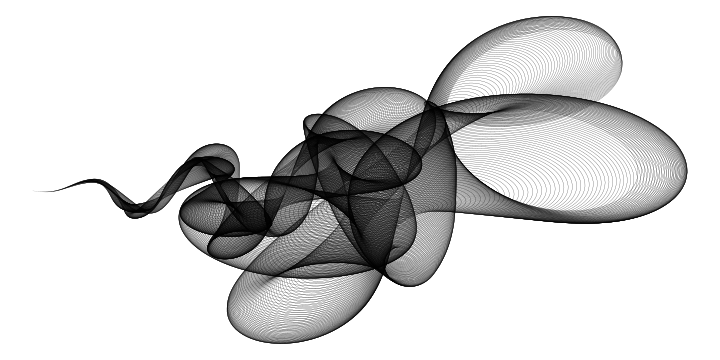
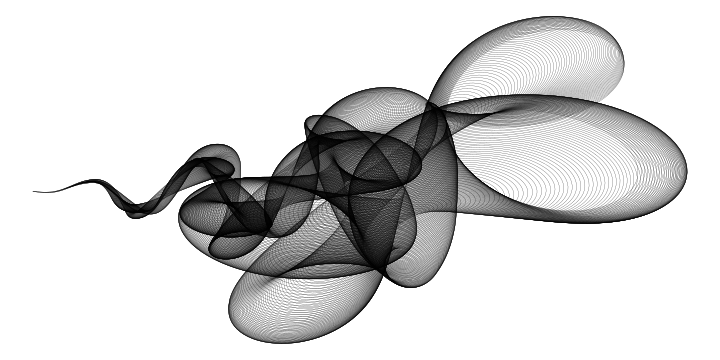
minor update

diff --git a/notes/ggsmoke.html b/notes/ggsmoke.html
@@ -84,6 +84,7 @@
 
 
 <div class="chunk" id="ggsmoke1"><div class="rcode"><div class="source"><pre class="knitr r"><span class="hl std">n</span> <span class="hl kwb">=</span> <span class="hl num">1000</span>
+<span class="hl kwd">set.seed</span><span class="hl std">(</span><span class="hl num">3</span><span class="hl std">)</span>
 <span class="hl kwd">tibble</span><span class="hl std">(</span>
   <span class="hl kwc">i</span> <span class="hl std">=</span> <span class="hl num">1</span><span class="hl opt">:</span><span class="hl std">n,</span>
   <span class="hl kwc">ran1</span> <span class="hl std">=</span> <span class="hl kwd">c</span><span class="hl std">(</span><span class="hl kwd">arima.sim</span><span class="hl std">(</span><span class="hl kwd">list</span><span class="hl std">(</span><span class="hl kwc">ar</span><span class="hl std">=</span><span class="hl kwd">c</span><span class="hl std">(</span><span class="hl num">1.999</span><span class="hl std">,</span> <span class="hl opt">-</span><span class="hl num">0.9995</span><span class="hl std">)), n,</span> <span class="hl kwc">sd</span><span class="hl std">=</span><span class="hl num">1e-3</span><span class="hl std">)),</span>
@@ -93,11 +94,11 @@
 <span class="hl kwd">rowwise</span><span class="hl std">()</span> <span class="hl opt">%&gt;%</span>
 <span class="hl kwd">mutate</span><span class="hl std">(</span><span class="hl kwc">dr</span> <span class="hl std">= ran1</span> <span class="hl opt">*</span> <span class="hl kwd">cos</span><span class="hl std">(theta)</span> <span class="hl opt">+</span> <span class="hl std">ran2</span> <span class="hl opt">*</span> <span class="hl kwd">cos</span><span class="hl std">(</span><span class="hl num">2</span><span class="hl opt">*</span><span class="hl std">theta)</span> <span class="hl opt">+</span>
             <span class="hl std">ran2</span> <span class="hl opt">*</span> <span class="hl kwd">sin</span><span class="hl std">(theta)</span> <span class="hl opt">+</span> <span class="hl std">ran1</span> <span class="hl opt">*</span> <span class="hl kwd">sin</span><span class="hl std">(</span><span class="hl num">2</span><span class="hl opt">*</span><span class="hl std">theta),</span>
-       <span class="hl kwc">r</span> <span class="hl std">=</span> <span class="hl num">.01</span> <span class="hl opt">*</span> <span class="hl std">(</span><span class="hl num">.1</span> <span class="hl opt">+</span> <span class="hl std">i</span><span class="hl opt">/</span><span class="hl std">n)</span><span class="hl opt">^</span><span class="hl num">2</span> <span class="hl opt">+</span> <span class="hl std">(i</span><span class="hl opt">/</span><span class="hl std">n)</span><span class="hl opt">^</span><span class="hl num">2</span> <span class="hl opt">*</span> <span class="hl std">dr,</span>
+       <span class="hl kwc">r</span> <span class="hl std">=</span> <span class="hl num">.01</span> <span class="hl opt">*</span> <span class="hl std">(</span><span class="hl num">1</span> <span class="hl opt">+</span> <span class="hl std">i</span><span class="hl opt">/</span><span class="hl std">n)</span><span class="hl opt">^</span><span class="hl num">2</span> <span class="hl opt">+</span> <span class="hl std">(i</span><span class="hl opt">/</span><span class="hl std">n)</span><span class="hl opt">^</span><span class="hl num">2</span> <span class="hl opt">*</span> <span class="hl std">dr,</span>
        <span class="hl kwc">x</span> <span class="hl std">= r</span> <span class="hl opt">*</span> <span class="hl kwd">cos</span><span class="hl std">(theta)</span> <span class="hl opt">+</span> <span class="hl num">10</span> <span class="hl opt">*</span> <span class="hl std">i</span><span class="hl opt">/</span><span class="hl std">n,</span>
        <span class="hl kwc">y</span> <span class="hl std">= r</span> <span class="hl opt">*</span> <span class="hl kwd">sin</span><span class="hl std">(theta)</span> <span class="hl opt">+</span> <span class="hl std">ran1</span> <span class="hl opt">*</span> <span class="hl std">i</span><span class="hl opt">/</span><span class="hl std">n)</span> <span class="hl opt">%&gt;%</span>
 <span class="hl kwd">ggplot</span><span class="hl std">()</span> <span class="hl opt">+</span>
-  <span class="hl kwd">geom_path</span><span class="hl std">(</span><span class="hl kwd">aes</span><span class="hl std">(</span><span class="hl kwc">x</span><span class="hl std">=x,</span> <span class="hl kwc">y</span><span class="hl std">=y,</span> <span class="hl kwc">group</span><span class="hl std">=i),</span> <span class="hl kwc">show.legend</span><span class="hl std">=</span><span class="hl num">FALSE</span><span class="hl std">,</span> <span class="hl kwc">lwd</span><span class="hl std">=</span><span class="hl num">.1</span><span class="hl std">)</span> <span class="hl opt">+</span>
+  <span class="hl kwd">geom_path</span><span class="hl std">(</span><span class="hl kwd">aes</span><span class="hl std">(</span><span class="hl kwc">x</span><span class="hl std">=x,</span> <span class="hl kwc">y</span><span class="hl std">=y,</span> <span class="hl kwc">group</span><span class="hl std">=i),</span> <span class="hl kwc">lwd</span><span class="hl std">=</span><span class="hl num">.1</span><span class="hl std">)</span> <span class="hl opt">+</span>
   <span class="hl kwd">theme_void</span><span class="hl std">()</span>
 </pre></div>
 </div><div class="rimage default"><img src="fig/ggsmoke.Rhtml-ggsmoke1-1.png" title="plot of chunk ggsmoke1" alt="plot of chunk ggsmoke1" class="plot" /></div></div>
